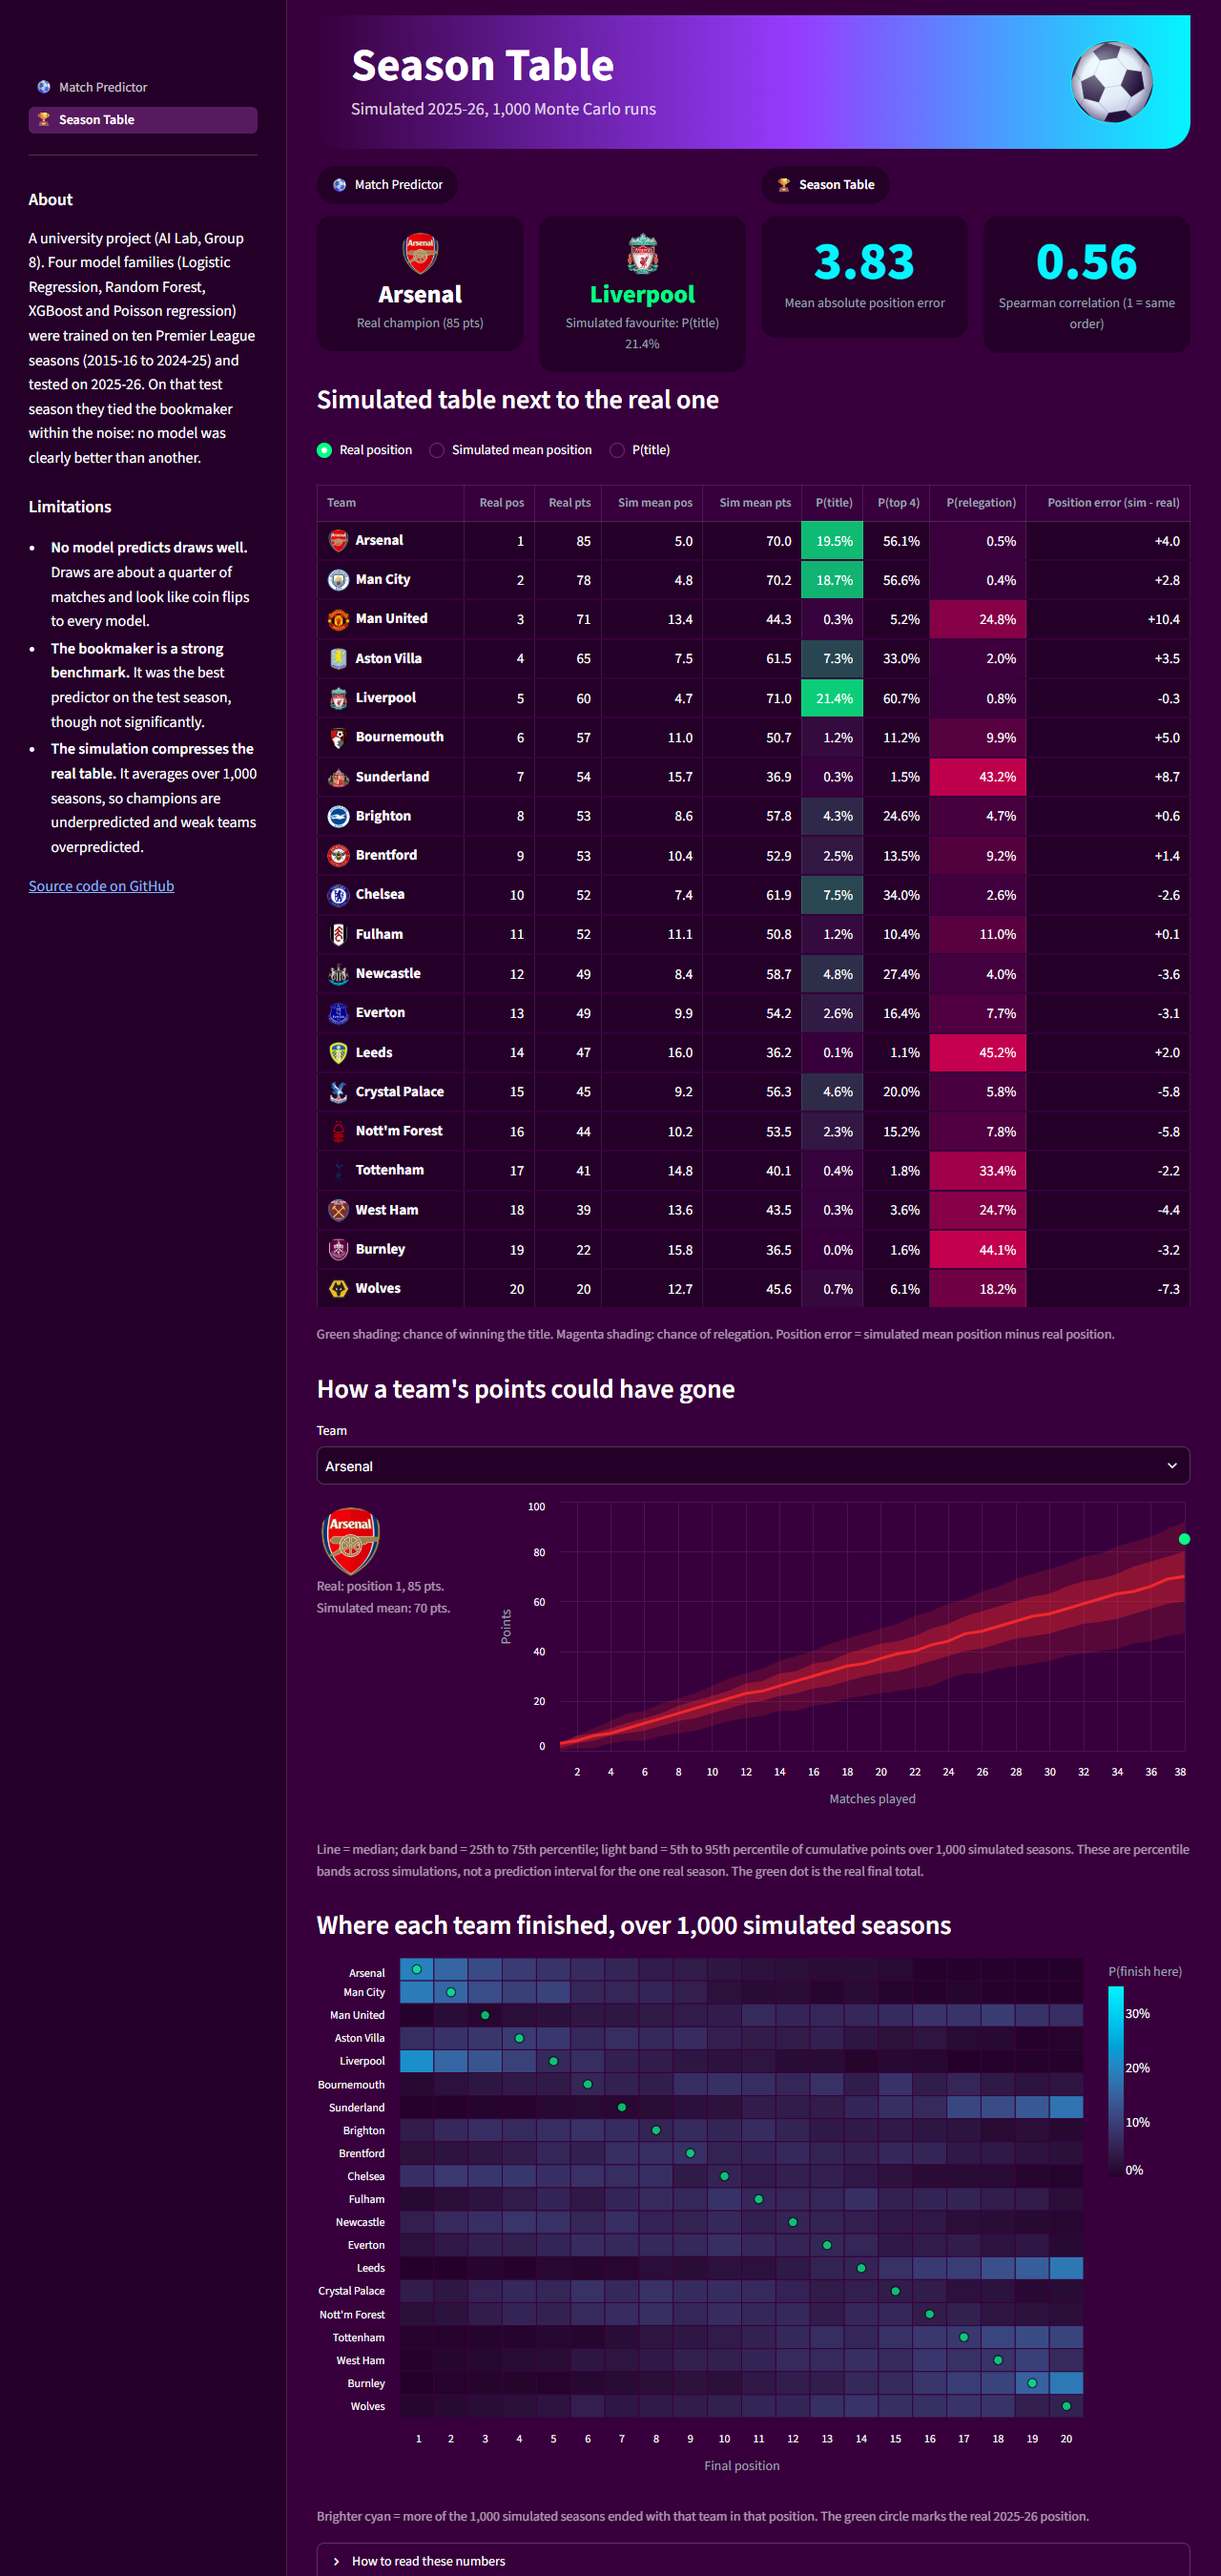
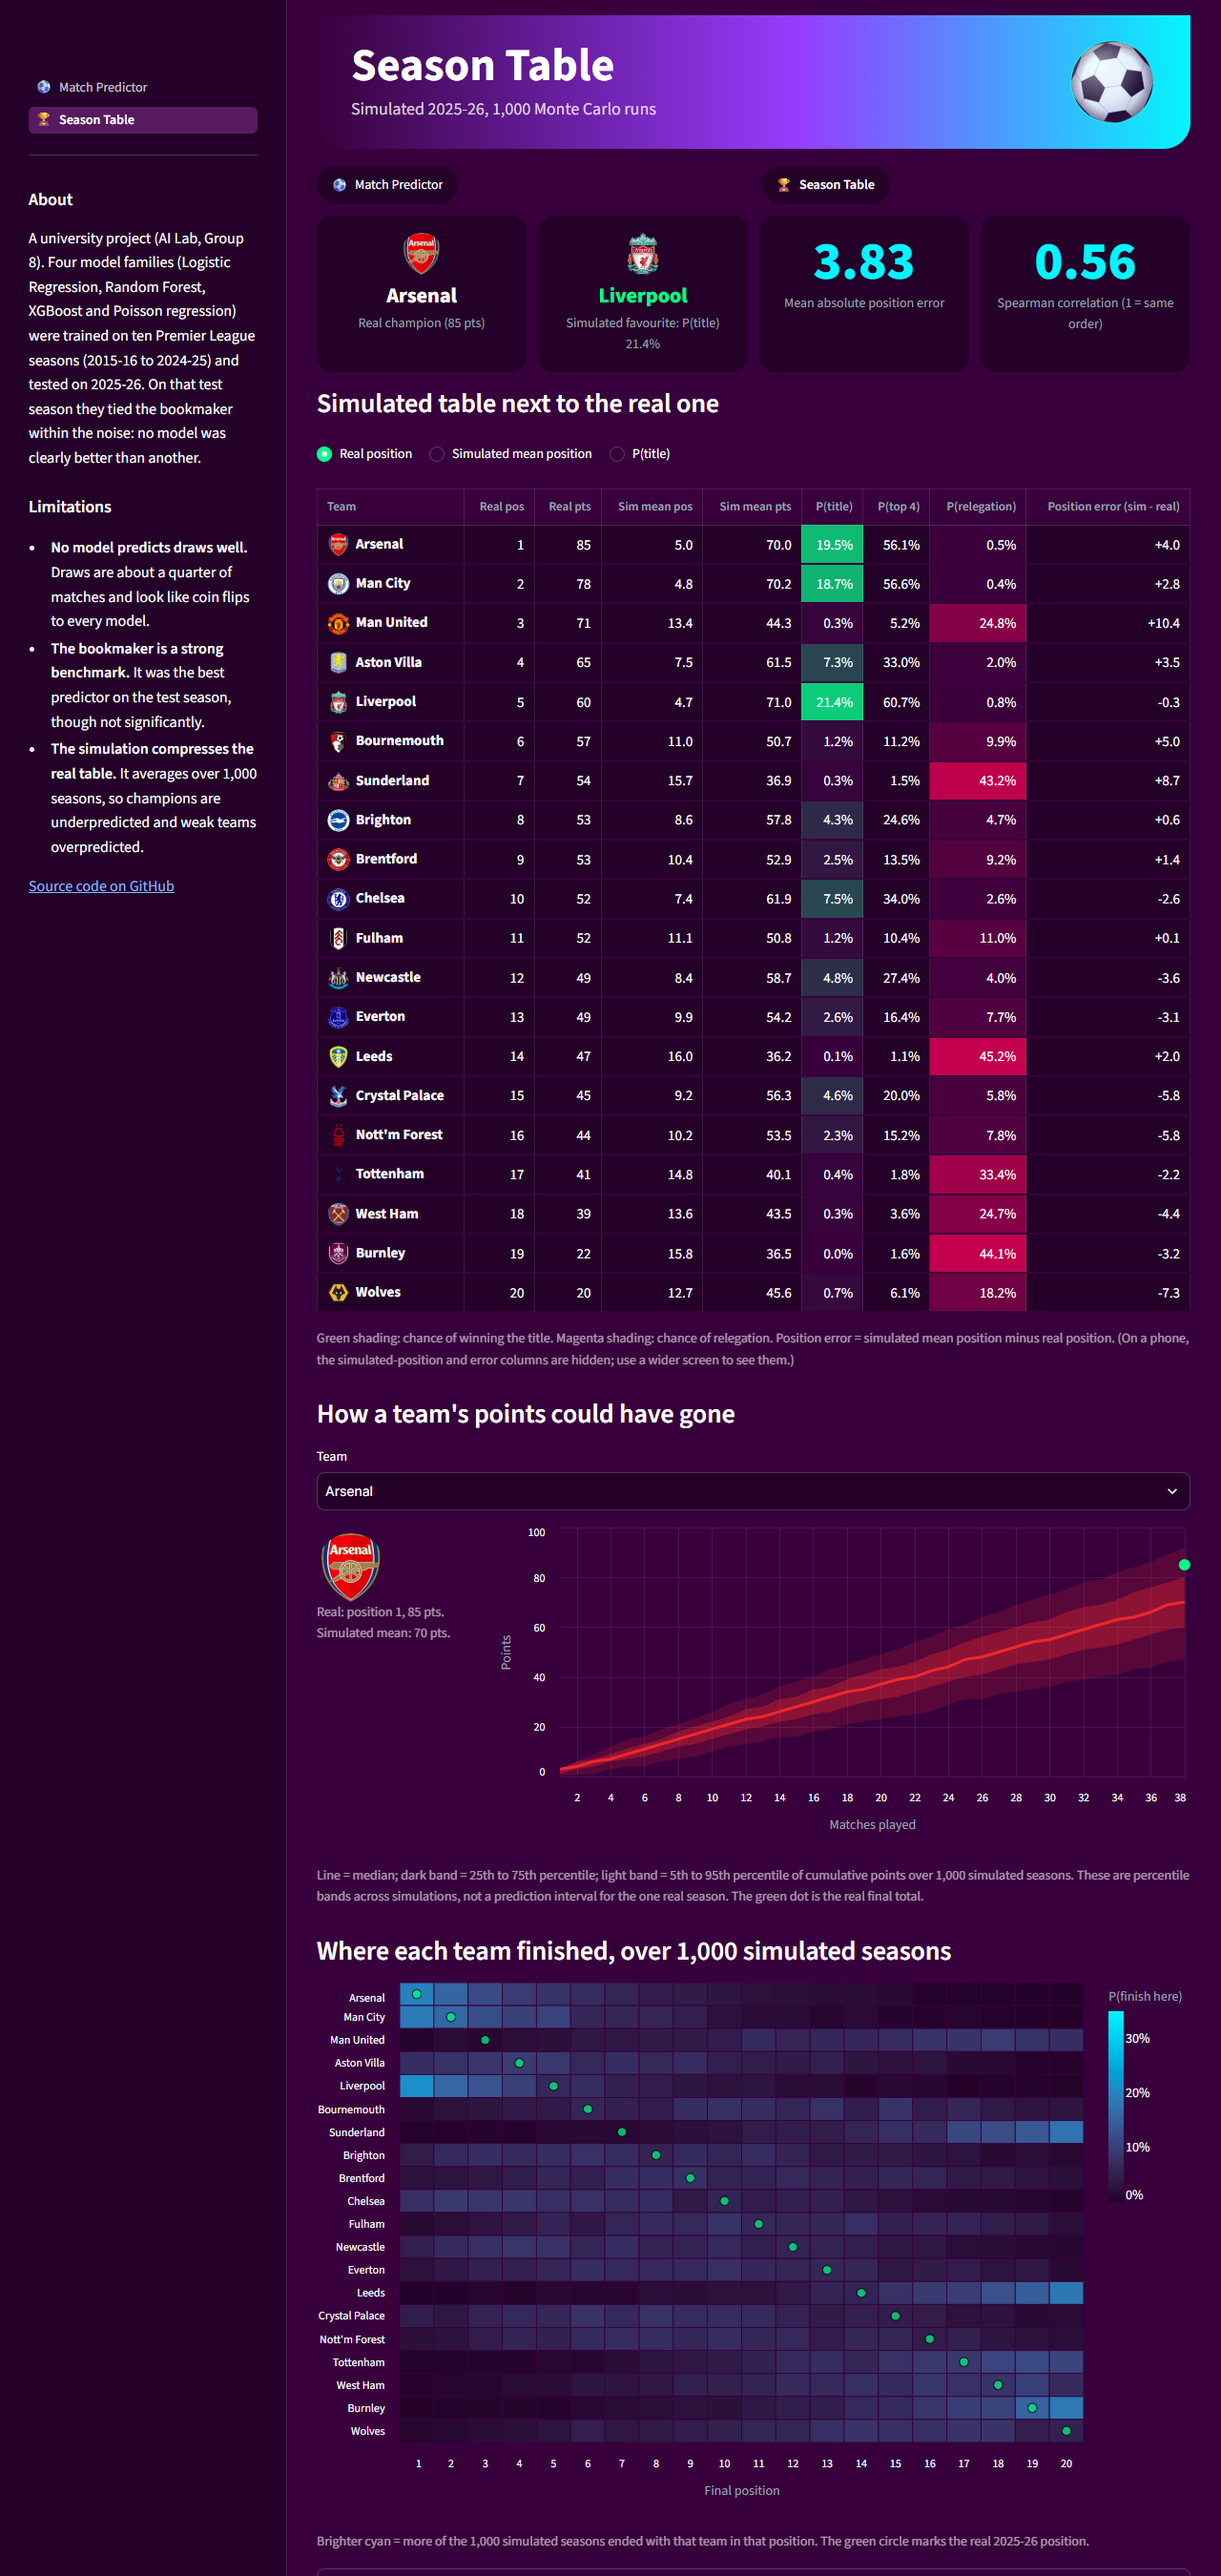
Stage 9: fix phone layout (scrollable tables, tile rows, scoreboard sizing)

diff --git a/app/views/season_table.py b/app/views/season_table.py
@@ -7,7 +7,7 @@ import pandas as pd
 import streamlit as st
 
 import styles
-from styles import CYAN, GREEN, GREY, MAGENTA, PURPLE, crest, html, tile, visible_color
+from styles import CYAN, GREEN, GREY, MAGENTA, PURPLE, crest, html, tile, tile_row, visible_color
 from team_colors import COLORS
 
 ROOT = Path(__file__).resolve().parent.parent.parent
@@ -37,13 +37,13 @@ def standings_table(table, column, ascending):
     body = ""
     for _, r in shown.iterrows():
         body += (f'<tr><td>{crest(r["team"], 24)} &nbsp;{r["team"]}</td><td>{r["real_pos"]}</td><td>{r["real_pts"]}</td>'
-                 f'<td>{r["sim_mean_pos"]:.1f}</td><td>{r["sim_mean_pts"]:.1f}</td>'
+                 f'<td class="hide-m">{r["sim_mean_pos"]:.1f}</td><td class="hide-m">{r["sim_mean_pts"]:.1f}</td>'
                  f'<td style="{shade(r["sim_P_title"], top_title, GREEN)}">{r["sim_P_title"] * 100:.1f}%</td>'
                  f'<td>{r["sim_P_top4"] * 100:.1f}%</td>'
                  f'<td style="{shade(r["sim_P_relegation"], top_rel, MAGENTA)}">{r["sim_P_relegation"] * 100:.1f}%</td>'
-                 f'<td>{r["position_error"]:+.1f}</td></tr>')
-    html('<table class="pl-table"><tr><th>Team</th><th>Real pos</th><th>Real pts</th><th>Sim mean pos</th><th>Sim mean pts</th>'
-         '<th>P(title)</th><th>P(top 4)</th><th>P(relegation)</th><th>Position error (sim - real)</th></tr>' + body + '</table>')
+                 f'<td class="hide-m">{r["position_error"]:+.1f}</td></tr>')
+    html('<div class="table-wrap"><table class="pl-table standings"><tr><th>Team</th><th>Real pos</th><th>Real pts</th><th class="hide-m">Sim mean pos</th><th class="hide-m">Sim mean pts</th>'
+         '<th>P(title)</th><th>P(top 4)</th><th>P(relegation)</th><th class="hide-m">Position error (sim - real)</th></tr>' + body + '</table></div>')
 
 
 def fan_chart(by_game, table, team):
@@ -82,21 +82,18 @@ styles.hero("Season Table", "Simulated 2025-26, 1,000 Monte Carlo runs")
 styles.nav_links()
 table, by_game, metrics, positions = load_data()
 
-c1, c2, c3, c4 = st.columns(4)
-champion = metrics["real_champion"]
-c1.markdown(tile(f'{crest(champion, 44)}<br><span style="font-size:26px">{champion}</span>', f'Real champion ({metrics["real_champion_pts"]} pts)', "#FFFFFF", small=True),
-            unsafe_allow_html=True)
-favourite = metrics["sim_favourite"]
-c2.markdown(tile(f'{crest(favourite, 44)}<br><span style="font-size:26px">{favourite}</span>',
-                 f'Simulated favourite: P(title) {metrics["sim_P_title_of_favourite"] * 100:.1f}%', GREEN, small=True), unsafe_allow_html=True)
-c3.markdown(tile(f'{metrics["mean_abs_position_error"]:.2f}', "Mean absolute position error", CYAN), unsafe_allow_html=True)
-c4.markdown(tile(f'{metrics["spearman_rank_correlation"]:.2f}', "Spearman correlation (1 = same order)", CYAN), unsafe_allow_html=True)
+champion, favourite = metrics["real_champion"], metrics["sim_favourite"]
+html(tile_row([
+    tile(f'{crest(champion, 44)}<br><span style="font-size:22px">{champion}</span>', f'Real champion ({metrics["real_champion_pts"]} pts)', "#FFFFFF", small=True),
+    tile(f'{crest(favourite, 44)}<br><span style="font-size:22px">{favourite}</span>', f'Simulated favourite: P(title) {metrics["sim_P_title_of_favourite"] * 100:.1f}%', GREEN, small=True),
+    tile(f'{metrics["mean_abs_position_error"]:.2f}', "Mean absolute position error", CYAN),
+    tile(f'{metrics["spearman_rank_correlation"]:.2f}', "Spearman correlation (1 = same order)", CYAN)], wrap=True))
 
 st.markdown("### Simulated table next to the real one")
 SORTS = {"Real position": ("real_pos", True), "Simulated mean position": ("sim_mean_pos", True), "P(title)": ("sim_P_title", False)}
 sort_choice = st.radio("Sort by", list(SORTS), horizontal=True, label_visibility="collapsed")
 standings_table(table, *SORTS[sort_choice])
-st.caption("Green shading: chance of winning the title. Magenta shading: chance of relegation. Position error = simulated mean position minus real position.")
+st.caption("Green shading: chance of winning the title. Magenta shading: chance of relegation. Position error = simulated mean position minus real position. (On a phone, the simulated-position and error columns are hidden; use a wider screen to see them.)")
 
 st.markdown("### How a team's points could have gone")
 team = st.selectbox("Team", sorted(table["team"]), index=sorted(table["team"]).index("Arsenal"))

diff --git a/app/views/match_predictor.py b/app/views/match_predictor.py
@@ -5,7 +5,7 @@ import streamlit as st
 
 import styles
 from predictor import CLASSIFIERS, AppDataError, Predictor
-from styles import CYAN, GREEN, GREY, crest, html, tile
+from styles import CYAN, GREEN, GREY, crest, html, tile, tile_row
 from team_colors import CODES, COLORS
 
 
@@ -26,9 +26,7 @@ def matchup_card(home, away):
 
 
 def probability_tiles(p):
-    columns = st.columns(3)
-    for column, (value, label, color) in zip(columns, [(p[0], "Home win", GREEN), (p[1], "Draw", GREY), (p[2], "Away win", CYAN)]):
-        column.markdown(tile(pct(value), label, color), unsafe_allow_html=True)
+    html(tile_row([tile(pct(value), label, color) for value, label, color in [(p[0], "Home win", GREEN), (p[1], "Draw", GREY), (p[2], "Away win", CYAN)]]))
 
 
 def scoreboard(r):
@@ -50,8 +48,8 @@ def comparison_table(r):
     for name, p, score, primary in rows:
         cells = ["-", "-", "-"] if p is None else [pct(v) for v in p]
         body += (f'<tr class="{"primary" if primary else ""}"><td>{name}</td><td style="color:{GREEN}">{cells[0]}</td>'
-                 f'<td style="color:{GREY}">{cells[1]}</td><td style="color:{CYAN}">{cells[2]}</td><td>{score}</td></tr>')
-    html('<table class="pl-table"><tr><th>Model</th><th>P(Home)</th><th>P(Draw)</th><th>P(Away)</th><th>Expected score</th></tr>' + body + '</table>')
+                 f'<td style="color:{GREY}">{cells[1]}</td><td style="color:{CYAN}">{cells[2]}</td><td class="hide-m">{score}</td></tr>')
+    html('<div class="table-wrap"><table class="pl-table"><tr><th>Model</th><th>P(Home)</th><th>P(Draw)</th><th>P(Away)</th><th class="hide-m">Expected score</th></tr>' + body + '</table></div>')
     if r["bookmaker"] is None:
         st.caption("No bookmaker odds exist for this pairing.")
     else:
@@ -69,18 +67,15 @@ def real_result_section(predictor, r):
     names = ["Home win", "Draw", "Away win"]
     colors = [GREEN, GREY, CYAN]
     date = pd.to_datetime(real["date"]).strftime("%d %B %Y")
-    html(f'<div class="score" style="font-size:40px">{CODES[r["home"]]} {real["home_score"]} : {real["away_score"]} {CODES[r["away"]]}'
+    html(f'<div class="score sm">{CODES[r["home"]]} {real["home_score"]} : {real["away_score"]} {CODES[r["away"]]}'
          f'<small>Real full-time result, {date}: <b style="color:{colors[real["outcome"]]}">{names[real["outcome"]]}</b></small></div>')
     given = {"Logistic Regression (primary)": r["probabilities"]["logreg"], "Random Forest": r["probabilities"]["random_forest"],
              "XGBoost": r["probabilities"]["xgboost"], "Poisson": r["probabilities"]["poisson"]}
     if r["bookmaker"] is not None:
         given["Bookmaker"] = r["bookmaker"]
     st.caption("Chance each model gave to the outcome that really happened:")
-    columns = st.columns(len(given))
-    for column, (name, p) in zip(columns, given.items()):
-        picked = names[int(p.argmax())]
-        column.markdown(tile(pct(p[real["outcome"]]), f"{name}<br>top pick: {picked}",
-                             colors[real["outcome"]], small=True), unsafe_allow_html=True)
+    tiles = [tile(pct(p[real["outcome"]]), f"{name}<br>top pick: {names[int(p.argmax())]}", colors[real["outcome"]], small=True) for name, p in given.items()]
+    html(tile_row(tiles, wrap=True))
     exact = r["grid"][real["home_score"], real["away_score"]] if max(real["home_score"], real["away_score"]) <= 10 else 0.0
     st.caption(f"The Poisson model gave the exact score {real['home_score']}-{real['away_score']} a {exact * 100:.1f}% chance. "
                "Read this as a sanity check, not a test: the models here use each team's form at the END of 2025-26, which already includes "

diff --git a/app/styles.py b/app/styles.py
@@ -59,13 +59,24 @@ p, li, label {{ font-size: 16px; }}
 .pl-table td:first-child {{ font-weight: 700; }}
 .pl-table tr:hover td {{ background: #3a0a42; }}
 .pl-table .primary td:first-child {{ border-left: 4px solid {GREEN}; }}
+.table-wrap {{ overflow-x: auto; -webkit-overflow-scrolling: touch; }}
+.tile-row {{ display: flex; gap: 12px; flex-wrap: nowrap; margin-bottom: 4px; }}
+.tile-row .tile {{ flex: 1 1 0; min-width: 0; }}
+.score.sm {{ font-size: 40px; }}
 .note {{ color: {GREY}; font-size: 13px; }}
 .disclaimer {{ text-align: center; color: {GREY}; font-size: 13px; margin-top: 36px; }}
 [data-testid="stSidebar"] {{ background: {CARD}; }}
 @media (max-width: 700px) {{
-  .hero {{ height: auto; padding: 18px 20px; }} .hero h1 {{ font-size: 32px; }} .hero img {{ height: 56px; }}
-  .tile .big {{ font-size: 40px; }} .score {{ font-size: 28px; }} .vs {{ width: 52px; height: 52px; font-size: 16px; margin: 0 8px; }}
-  .side .name {{ font-size: 18px; }}
+  .block-container {{ padding: 0 1rem 2rem 1rem; }}
+  .hero {{ height: auto; padding: 18px 20px; }} .hero h1 {{ font-size: 32px; }} .hero p {{ font-size: 15px; }} .hero img {{ height: 56px; }}
+  .tile {{ padding: 14px 6px; min-height: 100px; }} .tile .big {{ font-size: 36px; }} .tile .big.sm {{ font-size: 22px; }} .tile .label {{ font-size: 12px; }}
+  .tile-row.wrap {{ flex-wrap: wrap; }} .tile-row.wrap .tile {{ flex: 1 1 calc(50% - 6px); }}
+  .score {{ font-size: 22px; letter-spacing: 0; padding: 12px 6px; }} .score.sm {{ font-size: 22px; }}
+  .vs {{ width: 52px; height: 52px; font-size: 16px; margin: 0 8px; }}
+  .matchup {{ padding: 14px 8px; }} .side .name {{ font-size: 16px; }}
+  .pl-table {{ font-size: 13px; }} .pl-table th, .pl-table td {{ padding: 6px 6px; }} .standings td:first-child {{ white-space: nowrap; }}
+  .hide-m {{ display: none; }}
+  h2, h3 {{ font-size: 22px; }}
 }}
 </style>
 """
@@ -117,6 +128,11 @@ def nav_links():
     left, right = st.columns(2)
     left.page_link("views/match_predictor.py", label="Match Predictor", icon="⚽")
     right.page_link("views/season_table.py", label="Season Table", icon="🏆")
+
+
+def tile_row(tiles, wrap=False):
+    """Tiles side by side in one flex row (st.columns would stack them one under another on a phone). wrap=True gives 2 per row on a phone."""
+    return f'<div class="tile-row{" wrap" if wrap else ""}">{"".join(tiles)}</div>'
 
 
 def disclaimer():

diff --git a/src/check_app.py b/src/check_app.py
@@ -127,6 +127,15 @@ for page, target in (("match_predictor", "season_table"), ("season_table", "matc
 assert 'page_link("views/season_table.py"' in (APP / "styles.py").read_text(encoding="utf-8") and 'page_link("views/match_predictor.py"' in (APP / "styles.py").read_text(encoding="utf-8")
 passed("each page shows in-page links to both pages (navigation does not depend on the sidebar)")
 
+# ------------------------------------------------ 6c. phone layout: tables scroll instead of being cut off, tiles do not stack, phone CSS exists
+styles_text = (APP / "styles.py").read_text(encoding="utf-8")
+for needle in ("@media (max-width: 700px)", ".table-wrap", ".tile-row", ".hide-m"):
+    assert needle in styles_text, needle
+for page in ("match_predictor", "season_table"):
+    text = (APP / "views" / f"{page}.py").read_text(encoding="utf-8")
+    assert 'class="table-wrap"' in text and "tile_row(" in text and "st.columns(3)" not in text and "st.columns(4)" not in text, page
+passed("phone layout: media query, scrollable table wrappers and tile rows are in place on both pages")
+
 # ------------------------------------------------ 7. app/requirements.txt is the minimal list
 requirements = (APP / "requirements.txt").read_text().lower()
 for package in ("streamlit", "pandas", "numpy", "scikit-learn", "xgboost", "joblib", "statsmodels", "scipy"):
